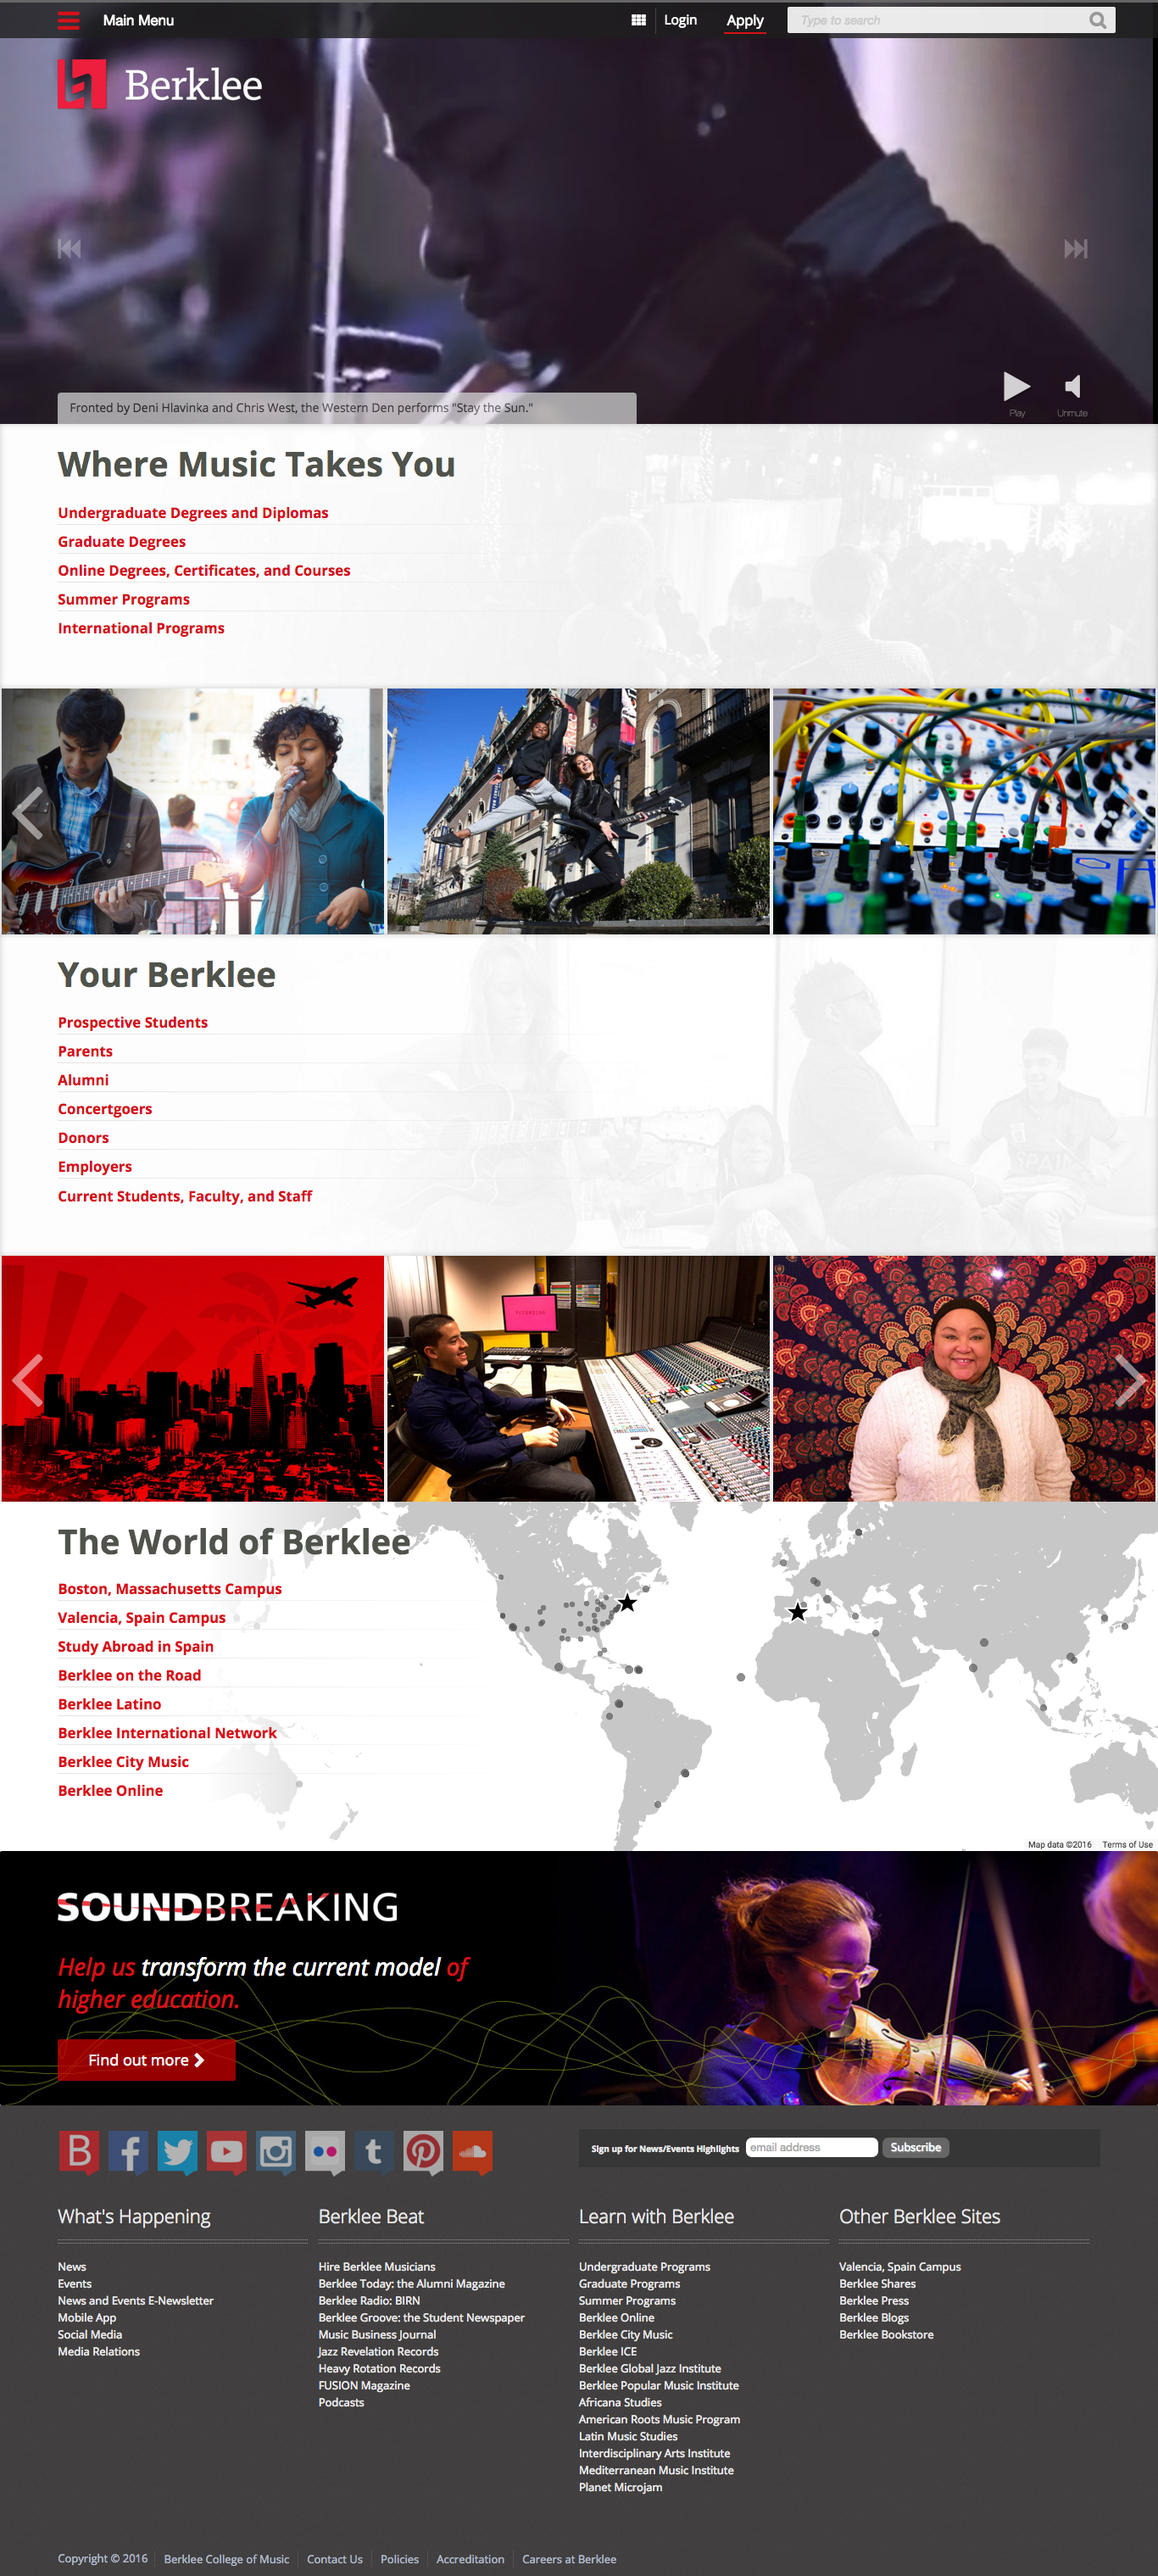
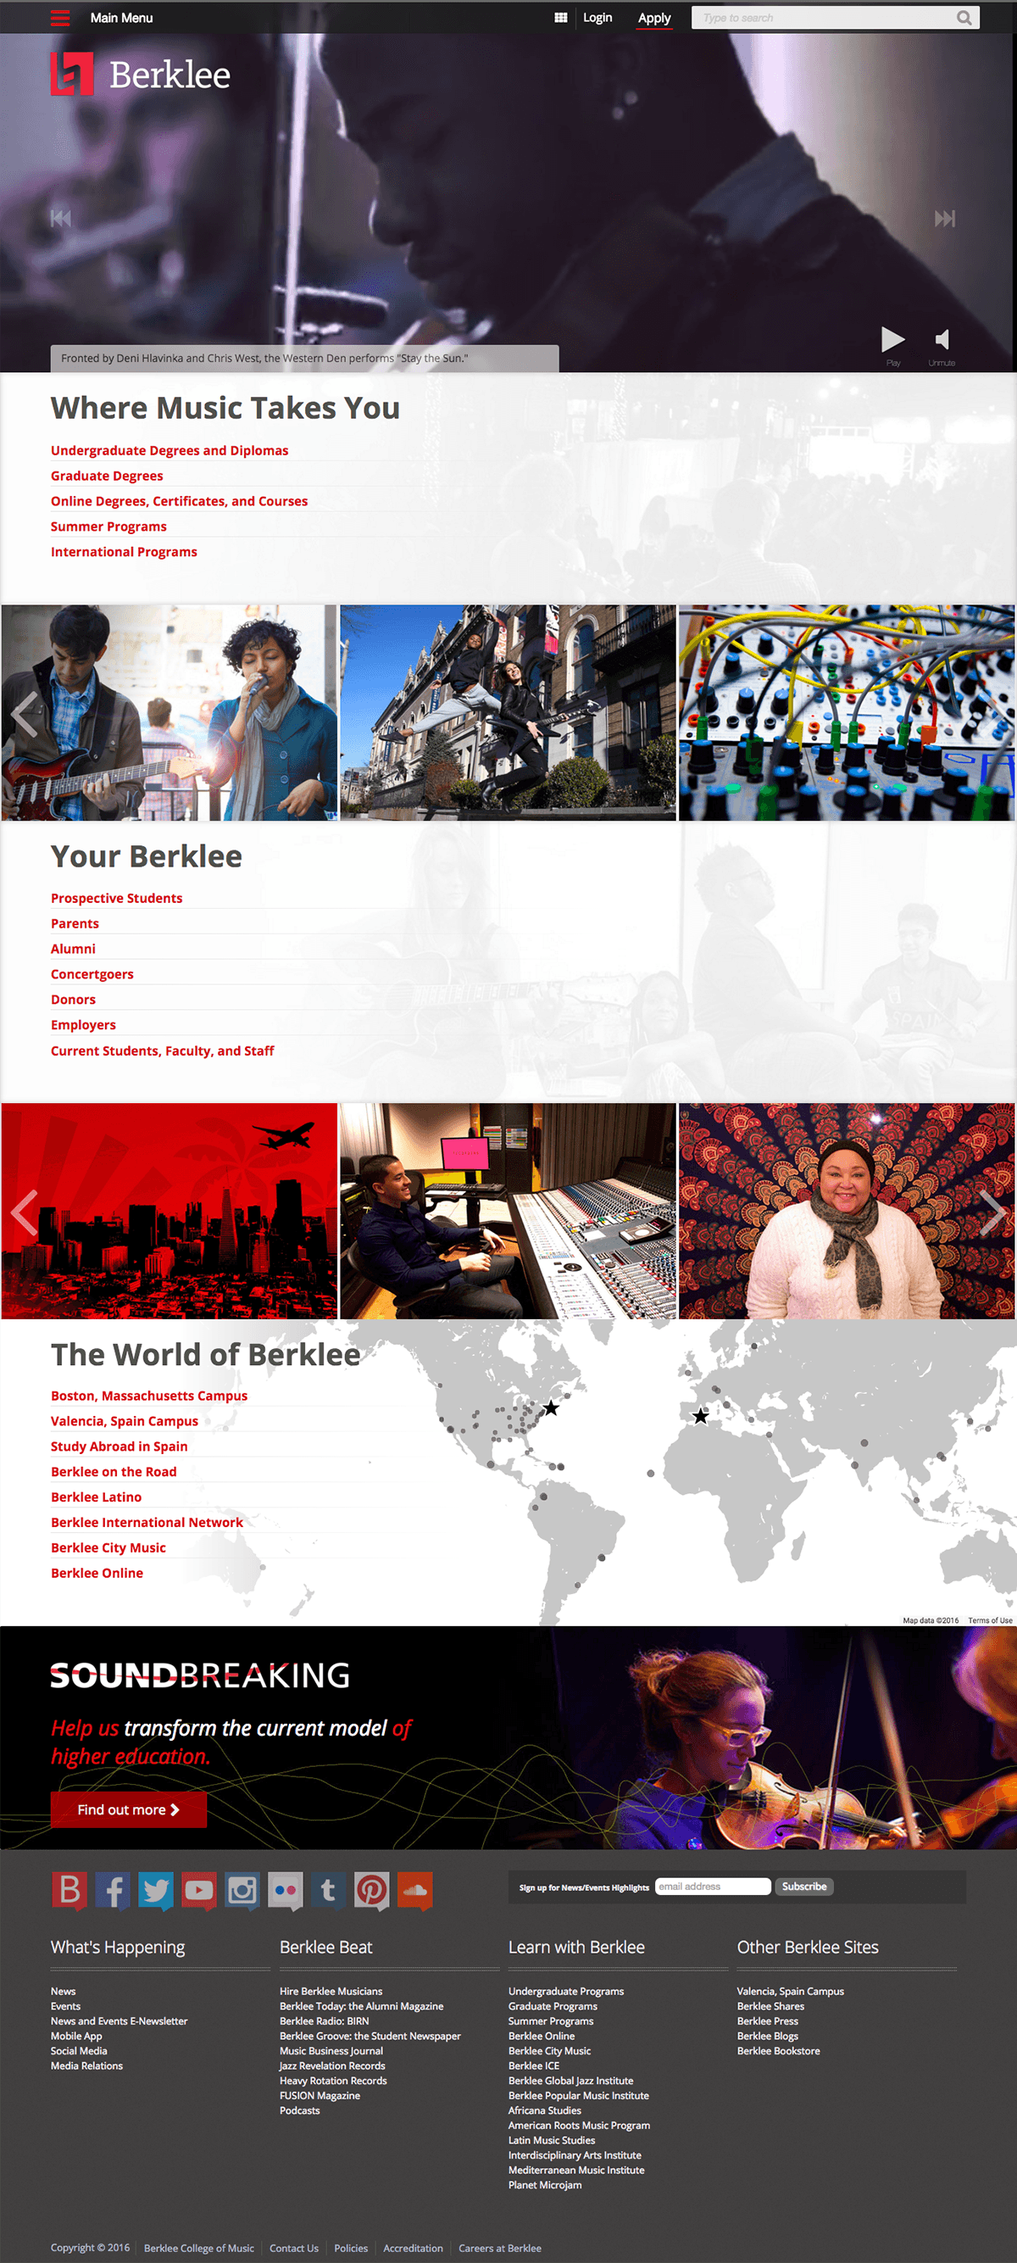
Reducing screenshots to 8-bit to save space, minor style and JS tweaks

diff --git a/public/css/aggregate.css b/public/css/aggregate.css
@@ -225,7 +225,10 @@ section#menu-bar {
     position: relative;
     text-align: center;
     width: 100%;
-    overflow: hidden; }
+    overflow: hidden;
+    max-height: 200px;
+    -webkit-transition: max-height 0.2s ease;
+    transition: max-height 0.2s ease; }
     section#menu-bar button i {
       clear: both;
       color: #666;
@@ -248,9 +251,11 @@ section#menu-bar {
     section#menu-bar button i {
       -webkit-transition: color 0.15s ease;
       transition: color 0.15s ease; }
-    section#menu-bar button.text-overflow .text {
-      opacity: 0;
-      line-height: 0; }
+    section#menu-bar button.text-overflow {
+      max-height: 80px; }
+      section#menu-bar button.text-overflow .text {
+        opacity: 0;
+        line-height: 0; }
     section#menu-bar button:hover, section#menu-bar button:focus {
       background: rgba(0, 0, 0, 0.1);
       color: #ddd; }

diff --git a/styles/menu-bar.scss b/styles/menu-bar.scss
@@ -21,6 +21,8 @@ section#menu-bar {
     text-align: center;
     width: 100%;
     overflow: hidden;
+    max-height: 200px;
+    transition: max-height 0.2s ease;
 
     // children
     i {
@@ -46,9 +48,13 @@ section#menu-bar {
     i {
       transition: color 0.15s ease;
     }
-    &.text-overflow .text {
-      opacity: 0;
-      line-height: 0;
+    &.text-overflow {
+      max-height: 80px;
+
+      .text {
+        opacity: 0;
+        line-height: 0;
+      }
     }
 
     // states

diff --git a/public/scripts/main-nav.js b/public/scripts/main-nav.js
@@ -151,7 +151,7 @@ $(window).load(function() {
 
   $(window).resize(function() {
     clearTimeout(resizeTimer)
-    resizeTimer = setTimeout(initialize, 100)
+    resizeTimer = setTimeout(initialize, 200)
   })
 
   $(window).scroll(function() { scrollUpdate() } )

diff --git a/public/index.html b/public/index.html
@@ -274,7 +274,7 @@
     </section>
 
     <section id="resume">
-      <h2>Portfolio</h2>
+      <h2>Resume</h2>
       <ul class="cards">
         <li>
           <h3>Languages</h3>
